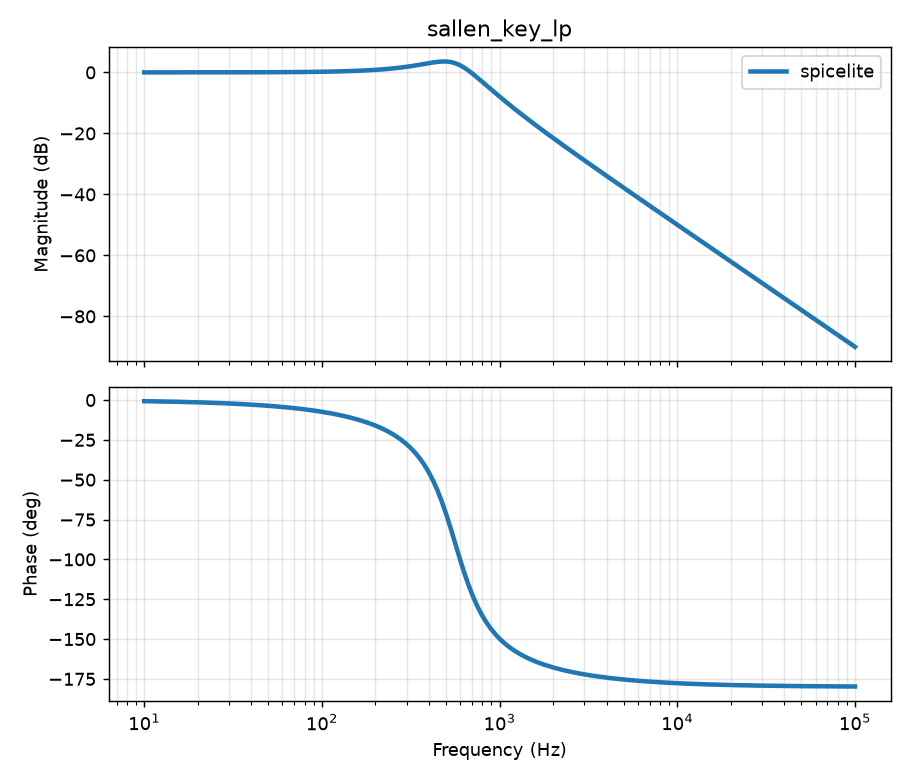
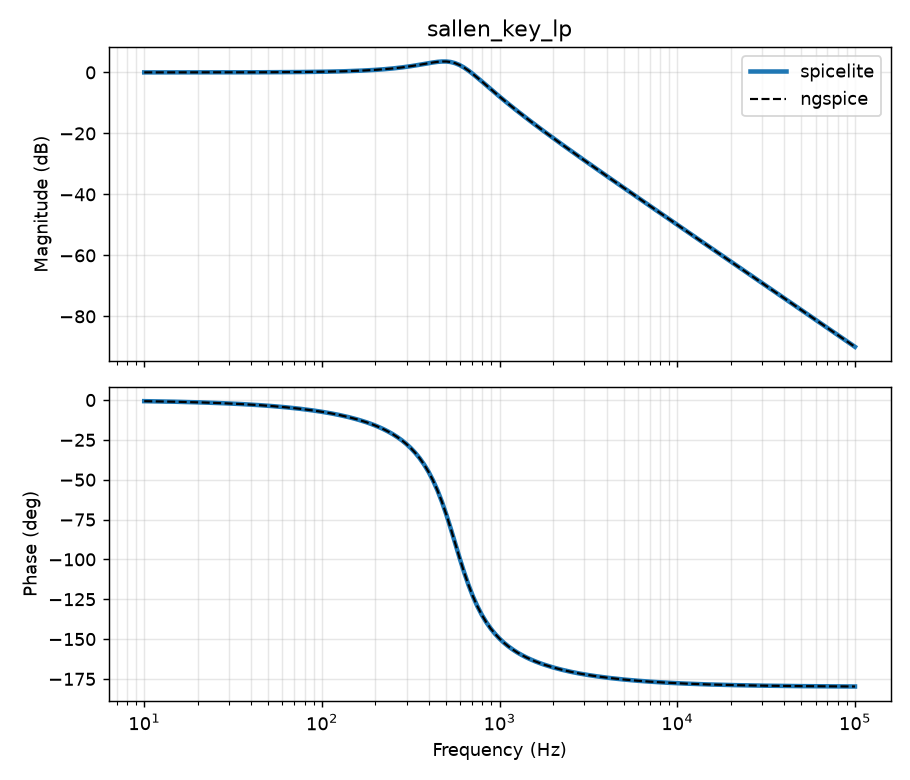
Site metadata and about panel
Open Graph and Twitter card tags with a generated social preview image,
an About section stating the privacy facts accurately, a 404 page,
robots.txt, an accessible name that contains the theme button's visible
text, and the docs plots regenerated with the ngspice overlay.

diff --git a/web/index.html b/web/index.html
@@ -6,6 +6,23 @@
     <title>spice-lite · circuit simulator in your browser</title>
     <meta name="description" content="Write a SPICE netlist, press Run, and see DC, AC and transient results. The simulator is Python running in your browser; nothing is uploaded." />
     <meta name="color-scheme" content="light dark" />
+    <!-- Link previews (Open Graph / Twitter). og:image and og:url must be absolute URLs; they assume the Pages address
+         https://hopexist.github.io/spice-lite/ and need changing if the repository is renamed or served from another domain. -->
+    <link rel="canonical" href="https://hopexist.github.io/spice-lite/" />
+    <meta property="og:type" content="website" />
+    <meta property="og:site_name" content="spice-lite" />
+    <meta property="og:title" content="spice-lite: a SPICE circuit simulator that runs in your browser" />
+    <meta property="og:description" content="DC, AC and transient analysis with diodes and MOSFETs, checked against ngspice. Python in WebAssembly; nothing you type is uploaded." />
+    <meta property="og:url" content="https://hopexist.github.io/spice-lite/" />
+    <meta property="og:image" content="https://hopexist.github.io/spice-lite/social-preview.png" />
+    <meta property="og:image:width" content="1200" />
+    <meta property="og:image:height" content="630" />
+    <meta property="og:image:alt" content="spice-lite logo and an RC pulse response plotted against ngspice with its error curve" />
+    <meta name="twitter:card" content="summary_large_image" />
+    <meta name="twitter:title" content="spice-lite: a SPICE circuit simulator that runs in your browser" />
+    <meta name="twitter:description" content="DC, AC and transient analysis with diodes and MOSFETs, checked against ngspice. Nothing you type is uploaded." />
+    <meta name="twitter:image" content="https://hopexist.github.io/spice-lite/social-preview.png" />
+    <meta name="twitter:image:alt" content="spice-lite logo and an RC pulse response plotted against ngspice with its error curve" />
     <link rel="icon" href="favicon.svg" type="image/svg+xml" />
     <link rel="icon" href="favicon-32.png" sizes="32x32" type="image/png" />
     <link rel="apple-touch-icon" href="apple-touch-icon.png" />
@@ -31,7 +48,7 @@
         <label class="field"><span>Example</span><select id="examples"></select></label>
         <button id="run" class="btn primary" type="button"><span class="label">Run</span><kbd id="run-kbd">Ctrl&#8201;&#8629;</kbd></button>
         <button id="share" class="btn" type="button">Copy link</button>
-        <button id="theme" class="btn" type="button" aria-label="Color theme: follow system"><span id="theme-label">Auto</span></button>
+        <button id="theme" class="btn" type="button" aria-label="Theme: Auto (follows your system). Press to change."><span id="theme-label">Theme: Auto</span></button>
       </div>
     </header>
     <section class="hero" aria-labelledby="hero-h">
@@ -73,7 +90,7 @@
         <article class="cap cap-wide">
           <svg class="cap-fig" viewBox="0 0 120 48" aria-hidden="true"><path class="c-a" d="M4 44C30 44 34 6 60 6s30 38 56 38"/><path class="c-b" d="M4 44C30 44 34 6 60 6s30 38 56 38"/></svg>
           <h3>Checked against ngspice</h3>
-          <p>809 Python tests. Every bundled example has a committed ngspice 41 reference. Linear <code>.op</code> and <code>.dc</code> agree to 1e-9 relative, <code>.ac</code> to 1e-6, and each transient to a tolerance written next to its test.</p>
+          <p>824 Python tests. Every bundled example has a committed ngspice 41 reference. Linear <code>.op</code> and <code>.dc</code> agree to 1e-9 relative, <code>.ac</code> to 1e-6, and each transient to a tolerance written next to its test.</p>
         </article>
         <article class="cap">
           <svg class="cap-fig" viewBox="0 0 120 48" aria-hidden="true"><path d="M4 44L116 8M4 44L116 24M4 44L116 38"/></svg>
@@ -110,8 +127,33 @@
       <p class="section-sub">One sheet per element the netlist parser accepts. Values in SI units; anything the parser rejects is an error with its line number.</p>
       <div id="sheets" class="sheets"></div>
     </section>
+    <section class="about" id="about" aria-labelledby="about-h">
+      <h2 id="about-h" class="section-h">About this project</h2>
+      <p class="section-sub">spice-lite is a SPICE-style circuit simulator written from scratch in Python, as a learning and portfolio project by an electrical-engineering student. It is not a replacement for ngspice: the README lists what it does not model.</p>
+      <div class="about-grid">
+        <article>
+          <h3>How it is verified</h3>
+          <p>824 Python tests, 65 of which compare against ngspice 41, each with a tolerance written next to it. Where a closed form exists the answer is also checked against it (RC step response, filter corners, the exact diode solution), and convergence-order tests check that halving the step halves backward Euler's error and quarters trapezoidal's. The "ngspice reference" box on a plot overlays precomputed ngspice curves; it is not a live ngspice run.</p>
+        </article>
+        <article>
+          <h3>Nothing you type leaves your browser</h3>
+          <p>The simulator is Python compiled to WebAssembly (Pyodide), running in a Web Worker on your own machine, so your netlist is never uploaded. A share link keeps the circuit after the <code>#</code> in its address, which browsers do not send to servers. The page does download static files: its own assets, and Python, NumPy and SciPy from the jsDelivr CDN (about 24 MB on the first visit).</p>
+        </article>
+        <article>
+          <h3>Read more</h3>
+          <ul>
+            <li><a href="https://github.com/Hopexist/spice-lite">Source code on GitHub</a></li>
+            <li><a href="https://github.com/Hopexist/spice-lite/blob/main/docs/writeup.md">Write-up: building it and checking it against ngspice</a></li>
+            <li><a href="https://github.com/Hopexist/spice-lite/blob/main/docs/convergence.md">Convergence table: backward Euler vs trapezoidal</a></li>
+            <li><a href="https://github.com/Hopexist/spice-lite#limitations">What it does not model</a></li>
+          </ul>
+        </article>
+      </div>
+    </section>
     <footer class="foot">
       <span id="runtime">Python runtime not loaded yet</span>
+      <span class="sep" aria-hidden="true">·</span>
+      <a href="#about">about this project</a>
       <span class="sep" aria-hidden="true">·</span>
       <a href="https://github.com/Hopexist/spice-lite">source on GitHub</a>
       <span class="sep" aria-hidden="true">·</span>

diff --git a/web/public/404.html b/web/public/404.html
@@ -1,0 +1,27 @@
+<!doctype html>
+<html lang="en">
+  <head>
+    <meta charset="utf-8" />
+    <meta name="viewport" content="width=device-width, initial-scale=1" />
+    <meta name="robots" content="noindex" />
+    <meta name="color-scheme" content="light dark" />
+    <title>Page not found · spice-lite</title>
+    <link rel="icon" href="/spice-lite/favicon.svg" type="image/svg+xml" />
+    <style>
+      :root { color-scheme: light dark; --bg: #fff; --ink: #111316; --muted: #4b5563; --signal: #0b4f9c; }
+      @media (prefers-color-scheme: dark) { :root { --bg: #0e1013; --ink: #e8eaed; --muted: #9aa3ad; --signal: #7cb2ff; } }
+      body { margin: 0; min-height: 100vh; display: grid; place-content: center; padding: 16px; background: var(--bg); color: var(--ink); font: 400 18px/1.5 system-ui, sans-serif; }
+      main { max-width: 34rem; border-top: 3px solid var(--ink); padding-top: 24px; }
+      h1 { margin: 0 0 8px; font-size: 2rem; letter-spacing: -0.02em; }
+      p { margin: 0 0 16px; color: var(--muted); }
+      a { color: var(--signal); font-weight: 600; text-underline-offset: 3px; }
+    </style>
+  </head>
+  <body>
+    <main>
+      <h1>Page not found</h1>
+      <p>There is nothing at this address. spice-lite is a single page; everything you type stays in your browser.</p>
+      <p><a href="/spice-lite/">Open the simulator</a></p>
+    </main>
+  </body>
+</html>

diff --git a/web/src/style.css b/web/src/style.css
@@ -302,7 +302,13 @@ table.data td.num { font-variant-numeric: tabular-nums; }
 @keyframes d-note { 0%, 44% { opacity: 0; } 50%, 88% { opacity: 1; } 94%, 100% { opacity: 0; } }
 
 /* ---- sections below the workspace ---- */
-.caps, .elements { padding: var(--s7) var(--gutter) var(--s6); border-top: var(--rule-strong) solid var(--ink); }
+.caps, .elements, .about { padding: var(--s7) var(--gutter) var(--s6); border-top: var(--rule-strong) solid var(--ink); }
+.about-grid { display: grid; grid-template-columns: repeat(auto-fit, minmax(min(100%, 280px), 1fr)); gap: var(--s5); }
+.about-grid h3 { margin: 0 0 var(--s1); font: 700 var(--fs-md) var(--sans); }
+.about-grid p, .about-grid li { margin: 0; color: var(--muted); max-width: 60ch; }
+.about-grid ul { margin: 0; padding-left: var(--s4); display: grid; gap: var(--s1); }
+.about-grid code { font: var(--fs-sm) var(--mono); color: var(--ink); }
+.about-grid a { color: var(--ink); text-underline-offset: 3px; }
 .section-h { margin: 0 0 var(--s2); font: 700 var(--fs-xl) / var(--lh-tight) var(--sans); letter-spacing: -0.015em; }
 .section-sub { margin: 0 0 var(--s5); max-width: 70ch; color: var(--muted); }
 /* a ruled feature table, not a row of cards: shared hairlines, varied spans, a small real diagram in each cell */

diff --git a/web/src/main.ts b/web/src/main.ts
@@ -95,7 +95,8 @@ function applyTheme(mode: ThemeMode) {
   }
   const label = { system: "Auto", light: "Light", dark: "Dark" }[mode];
   $("theme-label").textContent = `Theme: ${label}`;
-  $("theme").setAttribute("aria-label", `Color theme: ${mode === "system" ? "follow system" : mode}. Press to change.`);
+  // the accessible name must contain the visible text ("Theme: Auto"), or speech-control users cannot say what they see
+  $("theme").setAttribute("aria-label", `Theme: ${label}${mode === "system" ? " (follows your system)" : ""}. Press to change.`);
   redrawPlots();
 }
 function currentTheme(): ThemeMode {

diff --git a/DECISIONS.md b/DECISIONS.md
@@ -462,3 +462,39 @@ Thesis: one authored moment (the plot reveal); everything else is feedback or st
 - An e2e run straight after the screenshot scripts had 3 failures (one was the reference-overlay test); the next full run passed 24/24
   and the three tests then passed 9 of 9 repeats. Not reproduced, cause not confirmed: recorded as intermittent, not fixed.
 - The refactor report moves to `REPORT_REFACTOR.md`; `REPORT.md` is the UI polish report (same convention as D38 and D44).
+
+## D53: Portfolio polish run (branch `portfolio-polish`, cut from main as instructed)
+- **Base branch.** `harden-inputs` (input validation, 2 commits) exists but is not merged into main. The brief said to cut from main, so this
+  branch does not contain it and nothing written here describes it. Merge order is the owner's call.
+- **Personal-information scan** (tracked files; patterns for home paths, user and machine names, tokens, e-mail): no home paths, machine names or
+  tokens in any tracked file. Remaining items, left as they are because they are deliberate or not editable without rewriting history:
+  the MIT `LICENSE` names "Ethaa"; `CLAUDE.md` names the university; every commit before this run carries the author e-mail address
+  from the local git config (a rewrite would need a forced push, which the brief forbids). Recommendation in `REPORT_PORTFOLIO.md`.
+- **README**: new front door written above the existing sections, which were kept verbatim and only reordered.
+  The "Known limitations" bullets moved into a new Limitations section; the unsupported-feature list there was checked by parsing a one-line
+  example of each feature (all raise `NetlistError` with a line number).
+- **Live-demo link and badge** point at `https://hopexist.github.io/spice-lite/`. It 404s until GitHub Pages is enabled (Settings, Pages, Source:
+  GitHub Actions) and the repository is public; recorded as a manual step instead of hiding the link.
+- **Convergence table** is generated (`scripts/convergence_table.py` -> `docs/convergence.md`) with the same circuit as the convergence tests,
+  so the README can link a real table instead of a sentence.
+- **Sparse benchmark re-run** (`docs/benchmark_sparse.md`): the new speed-ups differ from the old README table (for example 43.5x vs 76.7x for the
+  1000-section `.op`). Wall-clock noise on a laptop; the README now says "tens of times" and keeps the raw output.
+- **Plots regenerated.** The 25 matplotlib figures in `docs/` that the README describes as "spicelite vs ngspice" had been generated while ngspice was
+  not reachable, so they showed spicelite only with an empty error panel. `python -m spicelite.plotting` with `NGSPICE` set regenerates them with the
+  dashed ngspice curve and the error trace. No simulation result changed (824 tests, goldens untouched).
+- **Hero image** `docs/hero.png`: the built site running `cmos_inverter_vtc` with the ngspice overlay, captured headlessly in Edge
+  (`web/scripts/hero.mjs`). No GIF: stitching frames needs an imaging dependency that is not a project dependency (ask before adding one).
+- **Write-up** (`docs/writeup.md`) is first person as asked, but states that the project was built with Claude Code (the commits say so) and leaves
+  an `[EDIT]` marker for the owner to describe their own role. Passing an AI-assisted project off as unassisted would not survive an interview.
+- **Social card** `web/public/social-preview.png` (1200 x 630, `web/scripts/social.mjs`), `og:` and `twitter:` tags in `web/index.html`. They need
+  absolute URLs, so they assume the Pages address above; a comment in `index.html` says to change them if the repository is renamed.
+- **About section** on the site states what the privacy claim actually is: the netlist is never uploaded, but the page does fetch static files and
+  Python, NumPy and SciPy from the jsDelivr CDN (about 24 MB). "Nothing leaves the browser" would overstate it.
+- **404 page** (`web/public/404.html`) links to `/spice-lite/` with an absolute path, because GitHub Pages serves it for any missing path at any depth.
+  Not testable with `vite preview` (it falls back to `index.html`), so it is verified only as a file in `dist/`.
+- **robots.txt** added (allow all). Lighthouse (desktop, Edge, navigation mode, before the label and robots fixes): accessibility 100, best
+  practices 100, SEO 92, agentic browsing 67. Failures: `robots.txt` (the preview server answered with `index.html`), `llms.txt` (not added: an
+  experimental file with no stated need) and a label mismatch on the theme button, whose accessible name did not contain its visible text
+  "Theme: Auto"; fixed by making the name start with the visible text. **Not re-measured after the fixes**: the audit tool lost its connection, so
+  the fixes are verified by the e2e tests only. Performance was not measured (the tool excludes it).
+- The stale "809 Python tests" in the site's capability card is now 824 (the card is hand-written HTML, so it can go stale again).

diff --git a/CHANGELOG.md b/CHANGELOG.md
@@ -22,6 +22,9 @@ although the package reports `__version__ = "0.7.0"`. The milestone numbers in c
   (`web_api.py`); precomputed ngspice reference overlay for every bundled example; GitHub Pages workflow; Vitest and Playwright tests.
   Python tests: 718 after the web API.
 - **MIT licence** (`2b60d8e`).
+- **Portfolio polish** (branch `portfolio-polish`): README front door with validation and limitations sections, `docs/convergence.md`,
+  `docs/benchmark_sparse.md`, `docs/writeup.md`, About section, social preview card, 404 page and `robots.txt` for the site, changelog,
+  contributing guide and issue templates.
 - **MOSFET capacitances** (`405807f`): overlap (`CGSO`, `CGDO`, `CGBO`) and fixed junction (`CBD`, `CBS`) capacitances, in AC and transient.
   Examples `cmos_inverter_overlap`, `nmos_cs_bandwidth`.
 - **Web UI design pass** (`37f31e4` to `6a76f82`): design system, motion, landing section with a live demo, element spec sheets generated from a
@@ -35,6 +38,10 @@ although the package reports `__version__ = "0.7.0"`. The milestone numbers in c
 - `mna.build` silently dropped MOSFETs (found in the stamping audit, `f5e3b39`; test first).
 - `.tran ... uic` failed on two capacitors in parallel with a spurious "loop of voltage sources" error (`405807f`; test first).
 - Ctrl/Cmd+Enter in the web editor ran the netlist twice (`6a76f82`).
+
+### Fixed (docs and site)
+- The 25 plots in `docs/` that the README describes as spicelite vs ngspice had been generated without ngspice and showed no overlay; regenerated.
+- The site's capability card said 809 tests; it is 824. The theme button's accessible name now contains its visible text.
 
 ### Known issues
 - Fixed-step trapezoidal rings on a capacitor current between ideal voltage sources (documented in the README limitations).

diff --git a/STATUS.md b/STATUS.md
@@ -120,3 +120,4 @@ Suggested GitHub topics (set by hand under Settings, or the gear next to About):
 `newton-raphson`, `transient-analysis`, `mosfet`, `cmos`.
 Suggested repository description: "SPICE-style circuit simulator in Python (MNA, Newton-Raphson, DC/AC/transient), checked against ngspice, runs in the browser".
 | 2. Technical write-up | done | (see git log) | docs/writeup.md: about 1,900 words of prose; 4 [EDIT: ...] markers; scripts/newton_limiting_demo.py backs the Newton table; 824 passed, 0 skipped; ruff clean; web build ok |
+| 3. Site polish | done | (see git log) | og/twitter metadata + social-preview.png; About section; 404.html; robots.txt; theme-button label fix; stale test count fixed; 25 docs plots regenerated with the ngspice overlay. Lighthouse desktop (before the last two fixes): a11y 100, best practices 100, SEO 92; not re-run. 824 pytest, 106 vitest, 24 e2e (full run before the label fix; 4 relevant re-run after), ruff clean, build ok |
